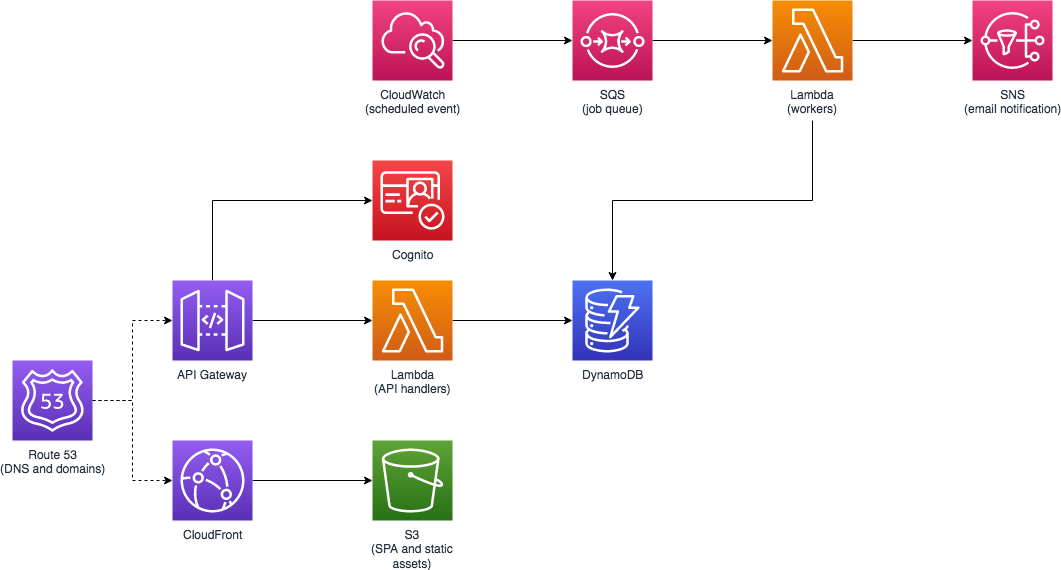
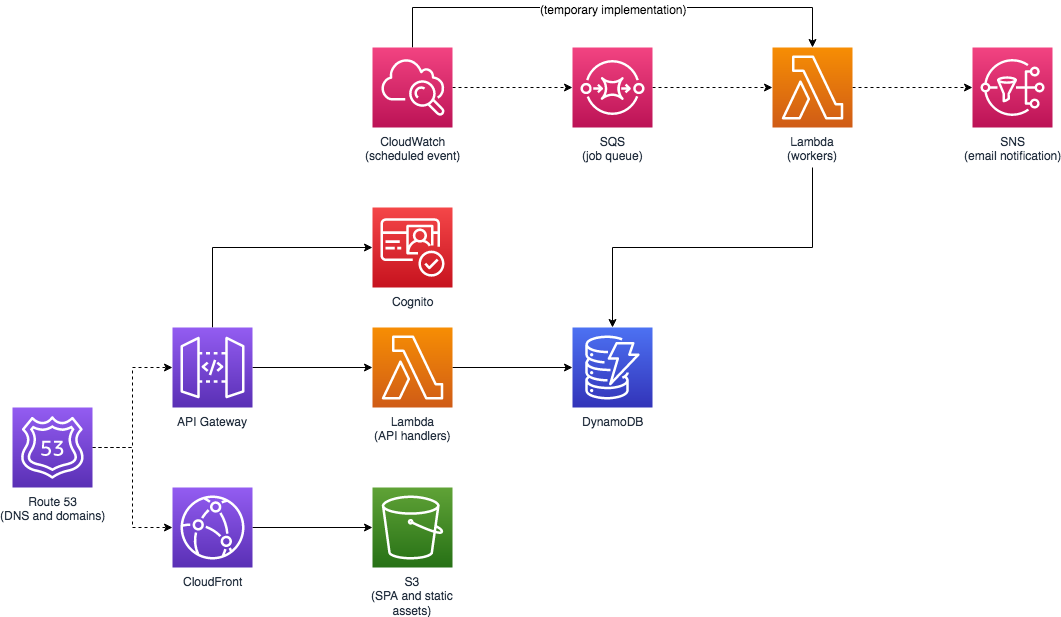
Initial implementation of URL crawler

diff --git a/src/crawler/crawler.py b/src/crawler/crawler.py
@@ -1,0 +1,30 @@
+import hashlib
+import os
+from repo import UrlRepository
+import requests
+
+url_repo = UrlRepository(os.environ['URL_TABLE_NAME'], os.environ['DYNAMODB_ENDPOINT'])
+
+
+class UrlCrawler(object):
+    def __init__(self, url_repo):
+        self.url_repo = url_repo
+
+    def crawl_urls(self):
+        urls = url_repo.get_urls()
+        for url in urls:
+            print("Checking URL '{}'".format(url['url']))
+            r = requests.get(url['url'])
+            current_hash = hashlib.sha256(r.text.encode(r.encoding)).hexdigest()
+
+            if 'last_hash' not in url or url['last_hash'] != current_hash:
+                print("New hash: '{}'".format(current_hash))
+                url['last_hash'] = current_hash
+                self.url_repo.update_url(url)
+            else:
+                print("Hashes match, no changes detected")
+
+
+def lambda_handler(event, context):
+    crawler = UrlCrawler(url_repo)
+    crawler.crawl_urls()

diff --git a/src/common/python/repo.py b/src/common/python/repo.py
@@ -1,4 +1,6 @@
 import boto3
+from boto3.dynamodb.conditions import Key
+import datetime
 import uuid
 
 
@@ -36,6 +38,21 @@ class UrlRepository(object):
             Item=item
         )
         return item
+
+    def update_url(self, url):
+        response = self.url_table.update_item(
+            Key={
+                'pk': url['pk']
+            },
+            ConditionExpression=Key('pk').eq(url['pk']),
+            UpdateExpression='SET last_hash = :last_hash, last_checked_at = :last_checked_at',
+            ExpressionAttributeValues={
+                ':last_hash': url['last_hash'],
+                ':last_checked_at': str(datetime.datetime.utcnow())
+            },
+            ReturnValues='ALL_NEW'
+        )
+        return response['Attributes']
 
     def delete_url(self, id):
         return self.url_table.delete_item(
